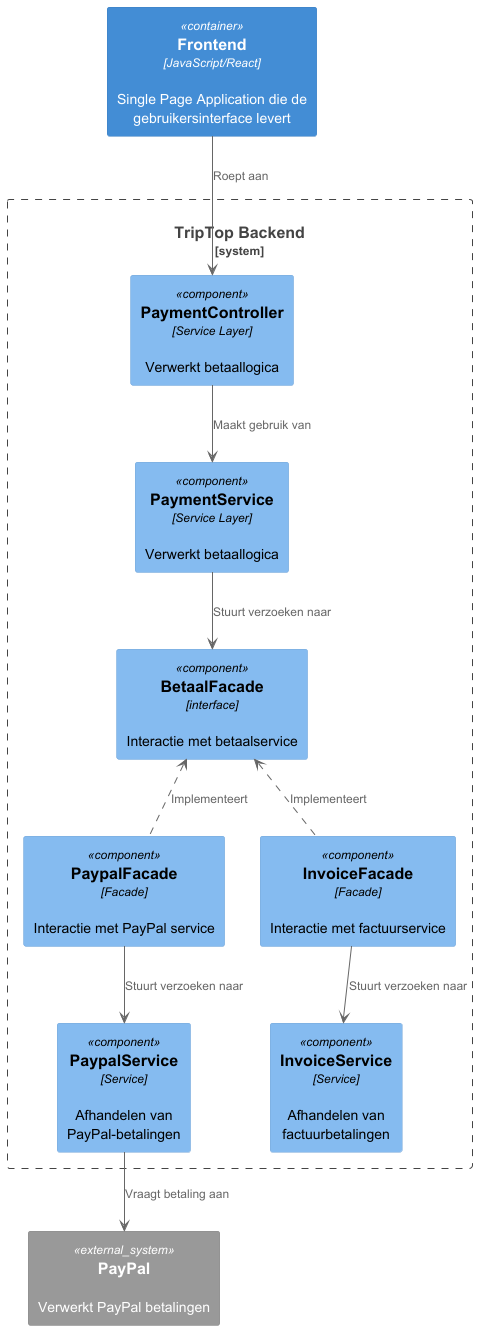
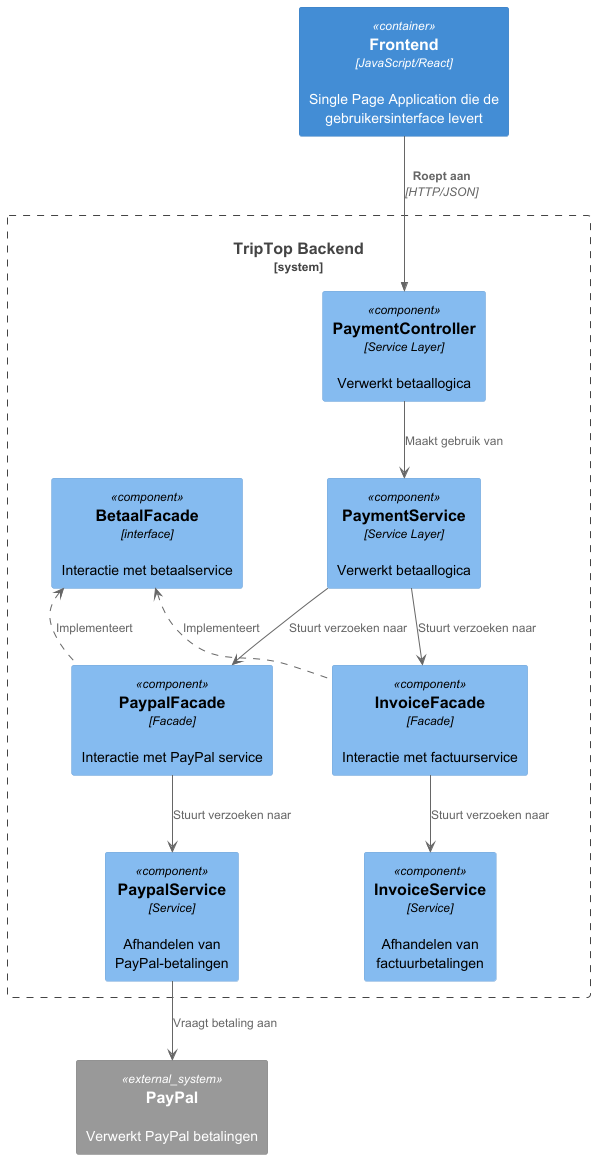
Aanpassingen diagrammen en context sgb

diff --git a/software-guidebook/README.md b/software-guidebook/README.md
@@ -319,6 +319,18 @@ Class diagram meerdere betaalmethodes
 
 [ADR Design pattern](#88-adr-008-Design-pattern-meerdere-betaalsystemen)
 
+Dit betaalsysteem maakt gebruik van het Facade Pattern, Adapter Pattern.
+Ook maakt het gebruik van het design principe Interface Segregation Principle.
+
+Het maakt gebruik van Facade door de complexiteit van de betaalservices te verbergen achter eenvoudige facades (PaypalFacade en InvoiceFacade).
+Deze roepen de bijbehorende services aan waar alle complexe code wordt verwerkt. Het enige wat je hoeft te doen is pay() aan te roepen met de juiste PaymentType.
+Het maakt gebruik van Adapter door PaypalService in te zetten als een adapter voor een externe PayPal API. De PayPal-service vertaalt externe API-aanroepen naar een consistente interface met methoden zoals createPayment(), getApprovalLink() en executePayment().
+Hierdoor kan PaymentService eenvoudig met PayPal-betalingen omgaan, zonder afhankelijk te zijn van de externe API-structuur.
+
+Tot slot zorgt ISP ervoor dat interfaces klein en specifiek blijven. PaymentFacade bevat alleen de methode pay(PaymentInfo), zodat PaypalFacade en InvoiceFacade geen onnodige methoden hoeven te implementeren.
+Ook bevatten PaypalService en InvoiceService alleen functionaliteit die relevant is voor hun betaalmethode.
+
+
 ## 8. Architectural Decision Records
 
 # 8.1. ADR-001 Keuze voor welke database
